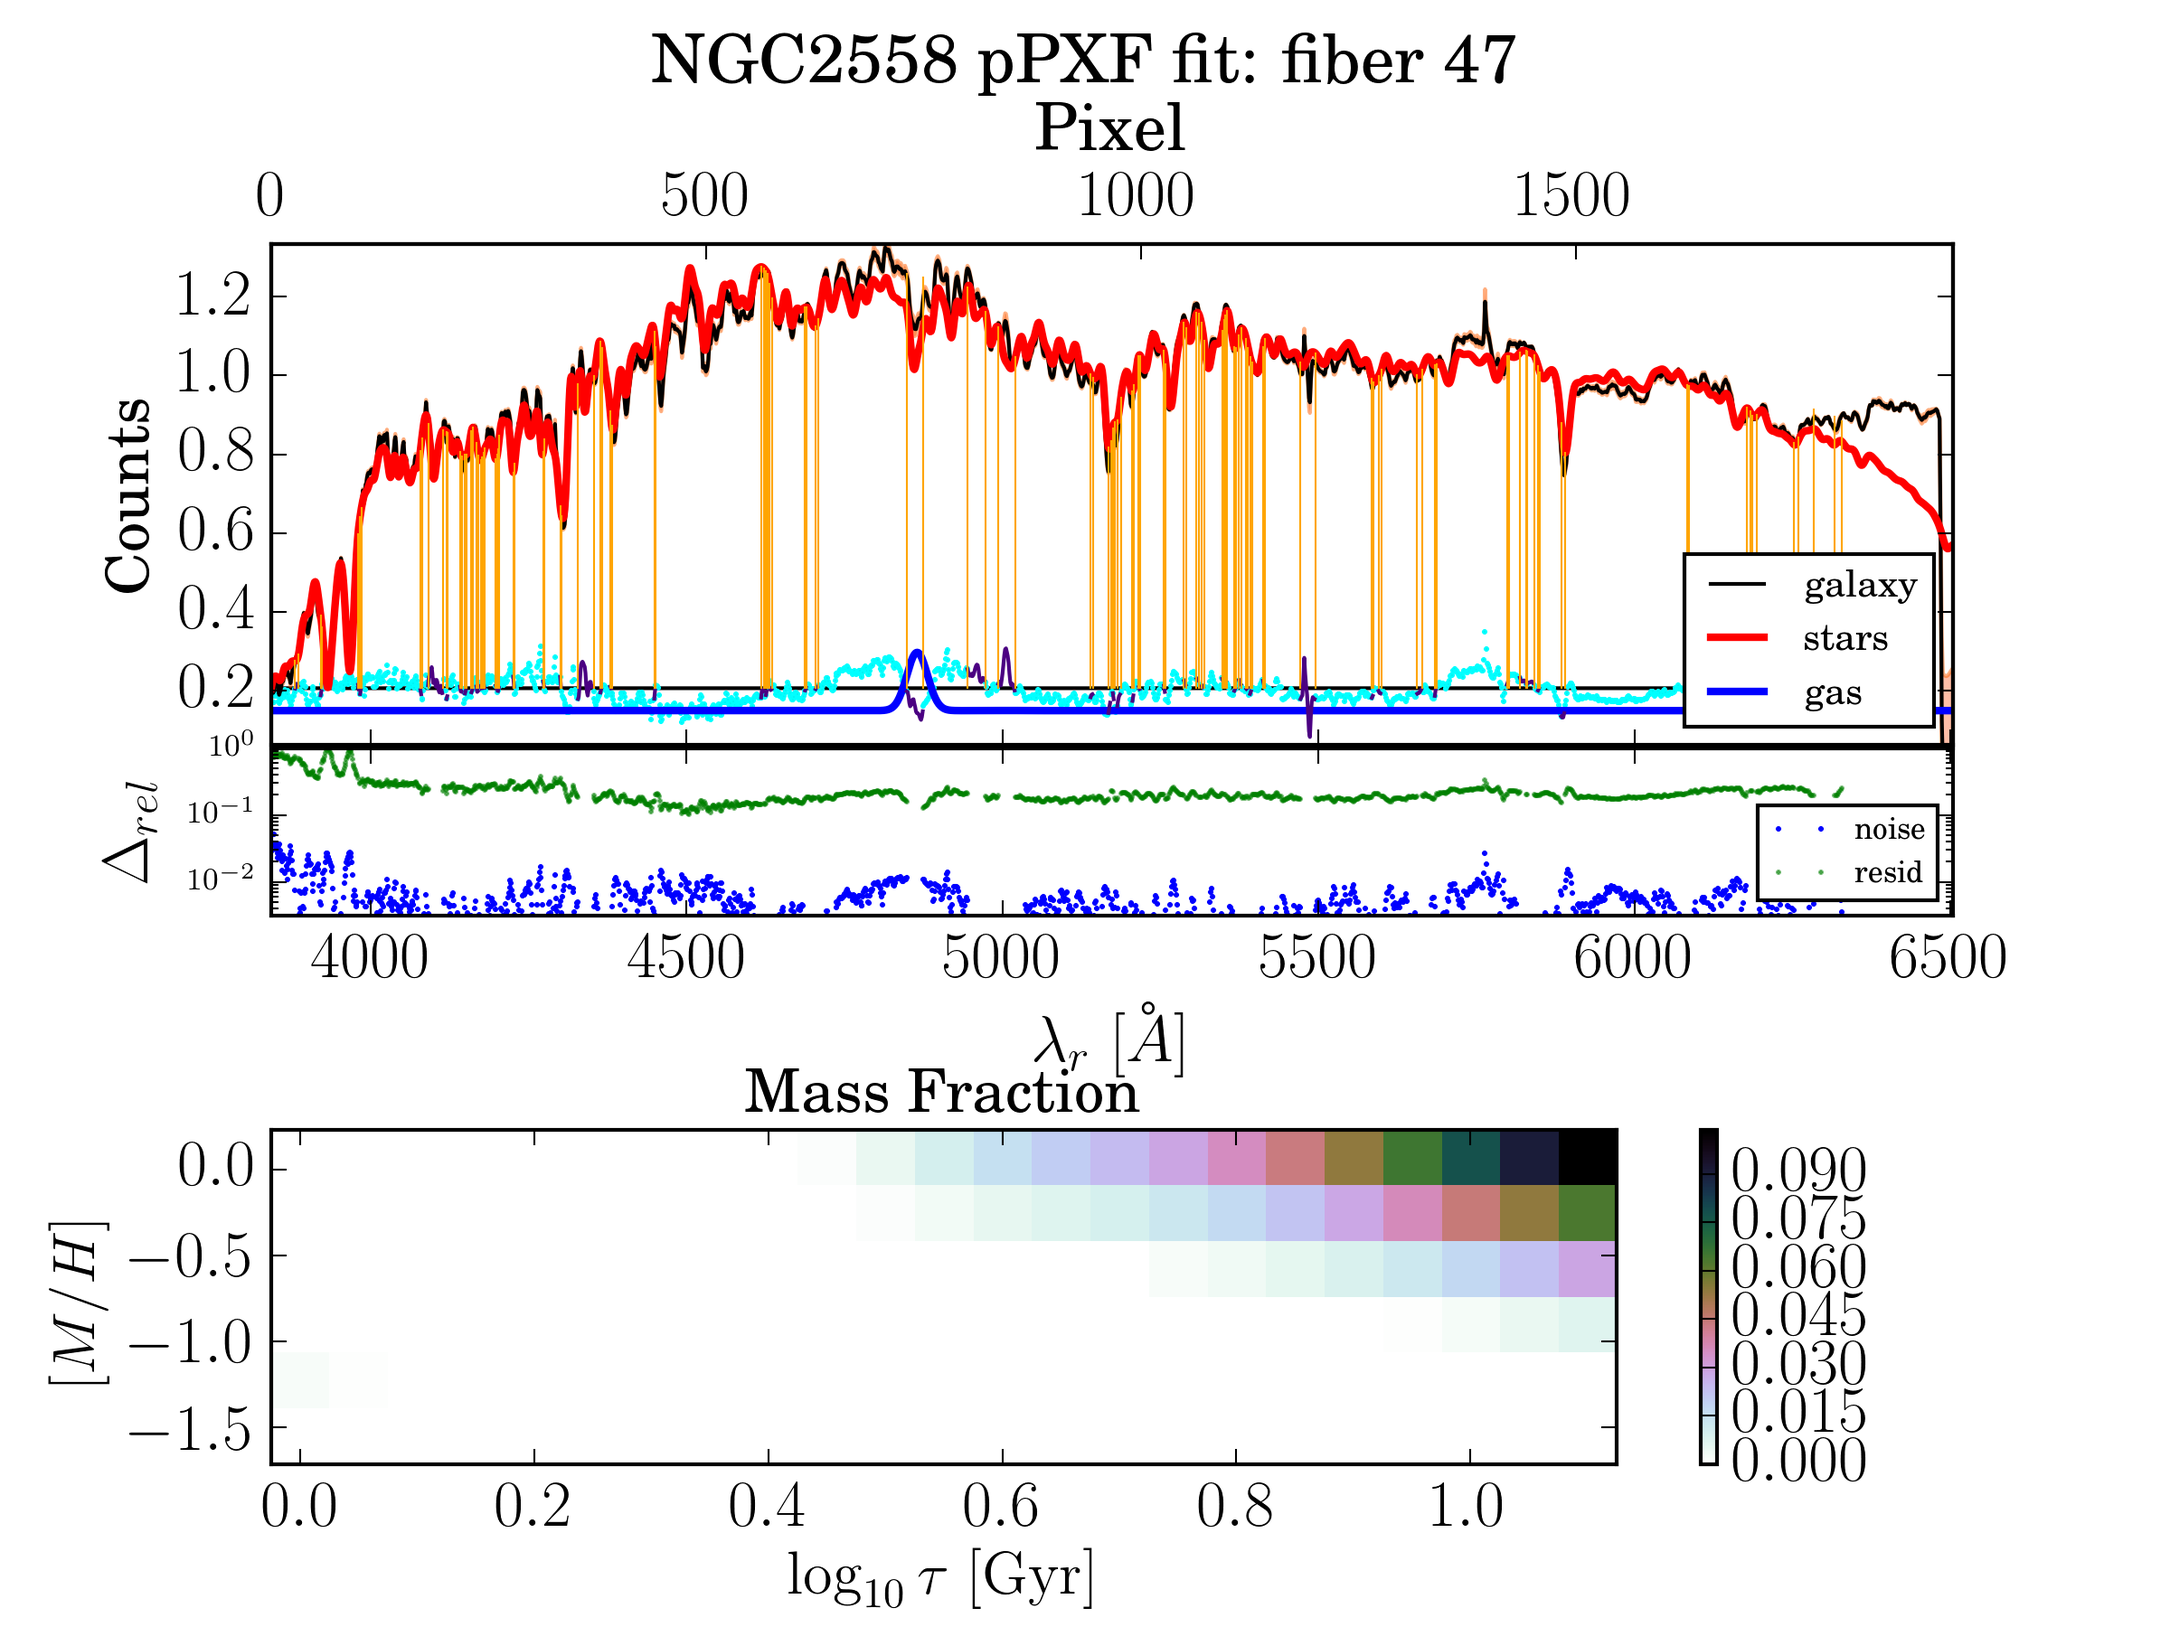
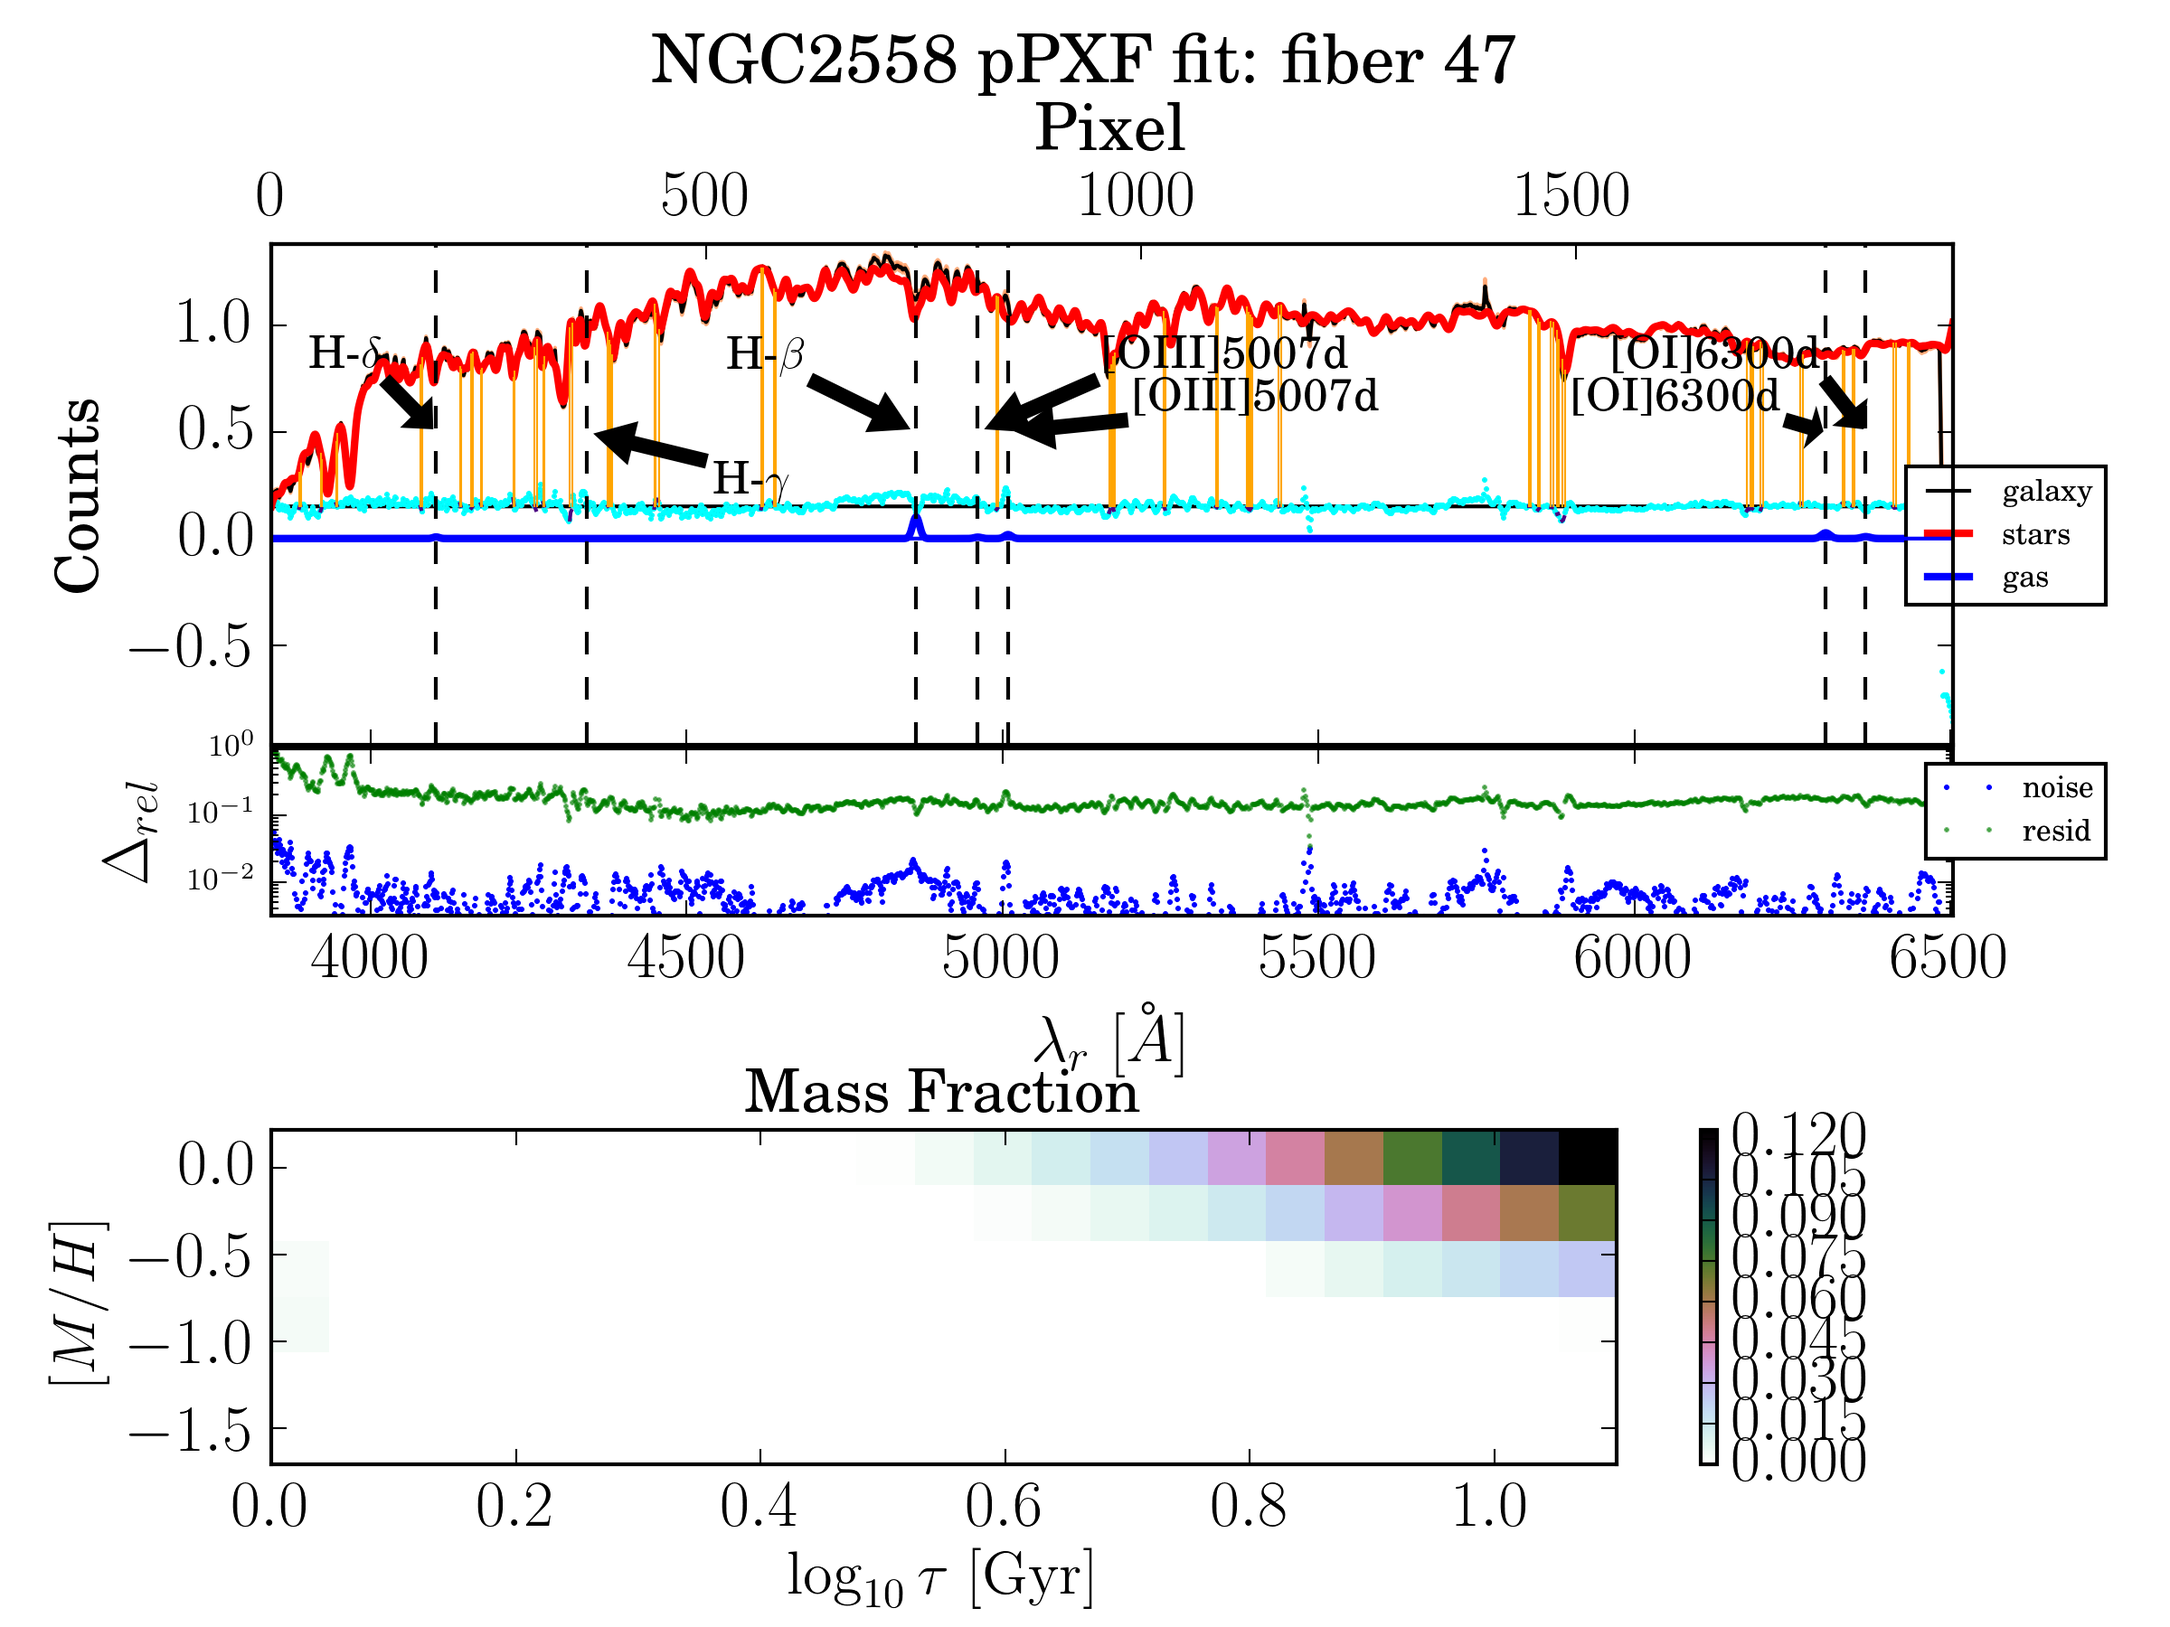
fixed eline fits by unmasking elines using a second goodPixels instance; plus more work on plotting

diff --git a/SPaCT.py b/SPaCT.py
@@ -916,7 +916,7 @@ def pPXF_MC(pp, lam):
 
 def SP_pPXF(ifu, fiber, l_summ, z, template_set='MILES', verbose=False,
             noise_plots=False, fit_plots=False, reddening=None, age_lim=13.6,
-            n_moments=4, bias=None, objname='', clean=True, quiet=False,
+            n_moments=2, bias=None, objname='', clean=True, quiet=False,
             oversample=False, save_fits=False, gas_comps=None, regul=100.):
     '''
     Run Cappellari et al.'s pPXF on a SparsePak fiber
@@ -1143,8 +1143,9 @@ def SP_pPXF(ifu, fiber, l_summ, z, template_set='MILES', verbose=False,
         lam = np.exp(logLam1)
 
         #deredden in MW frame
-        fact = reddening_curve(lam_obs, reddening)
-        galaxy /= fact
+        if reddening is not None:
+            fact = reddening_curve(lam_obs, reddening)
+            galaxy /= fact
 
         print 'ICs:', start
 
@@ -1163,6 +1164,13 @@ def SP_pPXF(ifu, fiber, l_summ, z, template_set='MILES', verbose=False,
 
         # new noise spectrum will be residual from 1st fit
         noise = np.abs(pp.bestfit - galaxy/np.median(galaxy))
+
+        #deredden in rest-frame
+        #this allows multiplicative polynomials to be used to
+        #correct fluxcal
+        reddening = pp.reddening
+        fact = reddening_curve(lam, pp.reddening)
+        galaxy /= fact
 
         pp = ppxf(templates=templates, galaxy=galaxy/np.median(galaxy),
                   noise=noise, velScale=velscale,
@@ -1216,6 +1224,13 @@ def SP_pPXF(ifu, fiber, l_summ, z, template_set='MILES', verbose=False,
             start = [start] * (gas_comps + 1)
             #print n_moments
             #print start
+
+            #make a new mask that doesn't mask eline locations
+            goodPixels = util.determine_goodpixels(logLam1, lamRange2, vel,
+                                                   mask_elines = False)
+            goodPixels = np.array(
+                            [pixel for pixel in goodPixels if pixel
+                             not in negative_pixels])
         else:
             gas_comps = 0
             all_templates = templates
@@ -1231,20 +1246,13 @@ def SP_pPXF(ifu, fiber, l_summ, z, template_set='MILES', verbose=False,
         for gascomp_number in range(1, gas_comps + 1):
             component.extend([gascomp_number] * nGas_templates)
 
-        #deredden in rest-frame
-        #this allows multiplicative polynomials to be used to
-        #correct fluxcal
-        reddening = pp.reddening
-        fact = reddening_curve(lam, pp.reddening)
-        galaxy /= fact
-
         pp = ppxf(templates=all_templates, galaxy=galaxy/np.median(galaxy),
                   noise=noise, velScale=velscale, start=start,
-                  goodpixels=goodPixels, clean=clean, plot=False,
+                  goodpixels=goodPixels, clean=True, plot=False,
                   moments=n_moments, vsyst=dv, reddening=None,
                   lam=lam, bias=bias, quiet=quiet, oversample=oversample,
                   regul=regul, reg_dim=reg_dim, component=component,
-                  mdegree=10, degree=-1)
+                  mdegree=20, degree=-1)
 
         #print z, lam[0], lam[-1]
 
@@ -1303,7 +1311,47 @@ def SP_pPXF(ifu, fiber, l_summ, z, template_set='MILES', verbose=False,
             gas_weights = pp.weights[-nGas_templates:]
             gas = pp.matrix[:, -nGas_templates:].dot(
                 pp.weights[-nGas_templates:])
-            ax1.plot(pp.lam, gas+0.15, c='b', linewidth=2, label='gas')
+            if gas_comps not in (0, None):
+                ax1.plot(pp.lam, gas, c='b', linewidth=2, label='gas')
+
+                line_ns = [r'H-$\beta$', r'H-$\gamma$', r'H-$\delta$',
+                           r'[OI]6300d', r'[OI]6300d',
+                           r'[OIII]5007d', r'[OIII]5007d']
+                line_ls = [4861.33, 4340.47, 4101.76, 6363.67, 6300.30,
+                           4958.92, 5006.84]
+
+                for i, (l, n) in enumerate(zip(line_ls, line_ns)):
+                    if i == 0:
+                        h = -300
+                        v = 0.4
+                    elif i == 1:
+                        h = 200
+                        v = -0.2
+                    elif i == 2:
+                        h = -200
+                        v = 0.4
+                    elif i == 3:
+                        h = -400
+                        v = 0.4
+                    elif i == 4:
+                        h = -400
+                        v = 0.2
+                    elif i == 5:
+                        h = 200
+                        v = 0.4
+                    elif i == 6:
+                        h = 200
+                        v = 0.2
+                    ax1.axvline(l*(1+pp.sol[1][0]/c),
+                                ymin=0., ymax=2., color='k',
+                                linestyle='--')
+                    ax1.annotate(s=n, xy=(l*(1+pp.sol[1][0]/c), 0.5),
+                                 xytext=(l*(1+pp.sol[1][0]/c) + h,
+                                         0.4 + v),
+                                 arrowprops={'shrink' : 0.05,
+                                             'edgecolor': 'None',
+                                             'facecolor': 'k',
+                                             'frac': 0.35})
 
             # residuals
             mn = np.min(pp.bestfit[pp.goodpixels])
@@ -1332,7 +1380,8 @@ def SP_pPXF(ifu, fiber, l_summ, z, template_set='MILES', verbose=False,
             ax1.spines['bottom'].set_visible(False)
             plt.setp(ax1.get_xticklabels(), visible=False)
             ax1.set_ylabel("Counts", fontsize=16)
-            ax1.legend(loc='lower right', fontsize='small')
+            ax1.legend(bbox_to_anchor=(1.1, .25), fontsize='small',
+                       loc='lower right', prop={'size': 8})
 
             # set up a twin axis to display pixel positions
             # DO NOT CHANGE XLIMS OF ANYTHING!!!!
@@ -1357,7 +1406,8 @@ def SP_pPXF(ifu, fiber, l_summ, z, template_set='MILES', verbose=False,
                          label='resid', alpha=0.5)
             ax1_res.set_xlabel(r'$\lambda_r ~ [\AA]$')
 
-            ax1_res.legend(loc='best', prop={'size': 8})
+            ax1_res.legend(loc='lower right', prop={'size': 8},
+                           bbox_to_anchor=(1.1, .25))
             ax1_res.set_ylabel(r'$\Delta_{rel}$')
             ax1_res.set_yscale('log')
             ax1_res.set_ylim([10**-2.5, 1.])
@@ -1389,10 +1439,8 @@ def SP_pPXF(ifu, fiber, l_summ, z, template_set='MILES', verbose=False,
                 weights, origin='lower', interpolation='nearest',
                 cmap='cubehelix_r',
                 vmin=0.0, extent=(
-                    np.log10(np.min(ssps['t'])) - d_log_ages/2.,
-                    np.log10(np.max(ssps['t'])) + d_log_ages/2.,
-                    np.min(ssps['Z']) - dz/2.,
-                    np.max(ssps['Z']) + dz/2.))
+                    np.log10(ssps['t']).min(), np.log10(ssps['t']).max(),
+                    ssps['Z'].min(), ssps['Z'].max()))
 
             plt.colorbar()
             plt.title("Mass Fraction", size=16)
@@ -1432,17 +1480,20 @@ def SP_pPXF(ifu, fiber, l_summ, z, template_set='MILES', verbose=False,
                 print 'writing to ' + objname + '/' + str(fiber) + '.png'
                 plt.savefig(objname + '/' + str(fiber) + '.png')
 
-    gas_fits = {
-        'reddening': reddening,
-        'V': pp.sol[1][0],
-        'sigma': pp.sol[1][1],
-        'dV': pp.error[1][0],
-        'dsigma': pp.error[1][1],
-        'Hdelta': gas_weights[0],
-        'Hgamma': gas_weights[1],
-        'Hbeta': gas_weights[2],
-        '[OIII]5007d': gas_weights[3],
-        '[OI]6300d': gas_weights[4]}
+    if gas_comps not in (0, None):
+        gas_fits = {
+            'reddening': reddening,
+            'V': pp.sol[1][0],
+            'sigma': pp.sol[1][1],
+            'dV': pp.error[1][0],
+            'dsigma': pp.error[1][1],
+            'Hdelta': gas_weights[0],
+            'Hgamma': gas_weights[1],
+            'Hbeta': gas_weights[2],
+            '[OIII]5007d': gas_weights[3],
+            '[OI]6300d': gas_weights[4]}
+    else:
+        gas_fits = {}
 
     return pp, ssps, gas_fits
 
@@ -1734,8 +1785,9 @@ def pPXF_run_galaxy(objname, first_few=None, gas_comps=None, regul=100.,
         except ZeroDivisionError:
             print 'No fit in fiber', fiber
 
-        except TypeError:  # occasionally you get a bad mpfit
+        except TypeError as emsg:  # occasionally you get a bad mpfit
             print 'probably velScale/mpfit error in fiber', fiber
+            print 'Error message:\n', emsg
 
         except IndexError:
             print 'weird index error in fiber', fiber

diff --git a/group_map.py b/group_map.py
@@ -18,6 +18,12 @@ objnames = ['UGC04329', 'UGC04344', 'NGC2558', 'NGC2557', 'NGC2562',
 objnames2 = ['NGC2560', 'NGC2569', 'IC2293', 'UGC04324', 'UGC04386',
              'IC2339', 'IC2341']
 
+objnames3 = ['CGCG119-040', 'CGCG119-047', 'CGCG119-051', 'CGCG119-069']
+objs3 = SkyCoord(
+    ra=[124.62096, 124.82825, 124.76342, 125.36387,125.36387],
+    dec=[20.89526, 21.76629, 20.82625, 21.03625, 21.03625],
+    unit=(u.deg, u.deg), frame='icrs')
+
 def get_obj_coords(names):
     for i, objname in enumerate(names):
         #print objname
@@ -37,9 +43,9 @@ if __name__ == '__main__':
     #os.system('mExec -c -o NGC2563IR.fits -f NGC2563.hdr DSS DSS2IR tempdir')
     #os.system('mExec -c -o NGC2563K.fits -f NGC2563.hdr 2MASS Ks tempdir')
 
-    fig = plt.figure(figsize=(10, 6), dpi=600)
+    fig = plt.figure(figsize=(10, 7), dpi=600)
     fo = fits.open('NGC2563R.fits')
-    ax = pywcsgrid2.axes([0.065, 0.1, 0.6, 0.85], header=fo[0].header)
+    ax = pywcsgrid2.axes([0.105, 0.075, 0.6, 0.9], header=fo[0].header)
     ax.imshow(fo[0].data, origin='lower', cmap='binary',
               aspect='equal', zorder=0,
               norm=LogNorm(vmin=np.percentile(fo[0].data, 15.)))
@@ -52,6 +58,8 @@ if __name__ == '__main__':
                       edgecolor='g', s=50, zorder=2, marker='H')
     ax['fk5'].scatter(objs2.ra.deg, objs2.dec.deg, marker='s',
                       edgecolor='r', facecolor='None', s=40, zorder=2)
+    ax['fk5'].scatter(objs3.ra.deg, objs3.dec.deg, marker='s',
+                      edgecolor='r', facecolor='None', s=40, zorder=2)
 
     print objs.to_string('hmsdms')
 
@@ -59,11 +67,13 @@ if __name__ == '__main__':
            for n, o in zip(objnames, objs)]
     txt2 = ['{}: {}'.format(n, str(o.to_string('hmsdms')))
             for n, o in zip(objnames2, objs2)]
+    txt3 = ['{}: {}'.format(n, str(o.to_string('hmsdms')))
+            for n, o in zip(objnames3, objs3)]
 
-    fig.text(.625, .55, '\n'.join(txt), color = 'g')
-    fig.text(.625, .30, '\n'.join(txt2), color = 'r')
+    fig.text(.725, .55, '\n'.join(txt), color = 'g', size=8)
+    fig.text(.725, .30, '\n'.join(txt2 + txt3), color = 'r', size=8)
     d = 61. #dist [Mpc] to NGC2563
-    ds = np.array([0.05, 0.1, 0.2, 0.5, 1., 2.]) #projected radius
+    ds = np.array([0.1, 0.2, 0.5, 1., 2.]) #projected radius
     print ds/d*206265./3600.
 
     NGC2563 = objs[-1]
@@ -71,11 +81,15 @@ if __name__ == '__main__':
     #                      facecolor='None') for s in ds/d/3600.]
 
     #[ax['fk5'].add_artist(c) for c in circles];
-    for r in ds/d*206265./3600.:
+    for r, l in zip(ds/d*206265./3600., ds):
         ax['fk5'].add_artist(
             plt.Circle(
                 (NGC2563.ra.deg, NGC2563.dec.deg), r, facecolor='None',
                 edgecolor='k', linestyle='dashed'))
+
+        ax['fk5'].annotate(xy=(NGC2563.ra.deg + .1, NGC2563.dec.deg + r + .01),
+                           s='R$_{{proj}}$ = {:.2} Mpc'.format(l), size=8)
+
     plt.suptitle('NGC2563 Group Diagram')
 
     plt.savefig('field_diagram.png')

diff --git a/ppxf_util.py b/ppxf_util.py
@@ -166,7 +166,7 @@ def log_rebin(lamRange, spec, oversample=False, velscale=None, flux=False):
 # V2.0.0: Translated from IDL into Python. MC, Oxford, 10 December 2013
 # V2.0.1: Updated line list. MC, Oxford, 8 January 2014
 
-def determine_goodpixels(logLam, lamRangeTemp, vel):
+def determine_goodpixels(logLam, lamRangeTemp, vel, mask_elines = True):
     """
     Generates a list of goodpixels to mask a given set of gas emission
     lines. This is meant to be used as input for PPXF.
@@ -177,13 +177,14 @@ def determine_goodpixels(logLam, lamRangeTemp, vel):
     #sky lines              NaI     OI    HgI    Atm
     #lines = lines.append([5683.88, 5577., 5461., 5199.])
 
-    dv = lines*0 + 800 # width/2 of masked gas emission region in km/s
+    dv = lines*0 + 1200 # width/2 of masked gas emission region in km/s
     c = 299792.458 # speed of light in km/s
 
     flag = logLam < 0 # empty mask
-    for j in range(lines.size):
-        flag |= (logLam > np.log(lines[j]) + (vel - dv[j])/c) \
-              & (logLam < np.log(lines[j]) + (vel + dv[j])/c)
+    if mask_elines == True:
+        for j in range(lines.size):
+            flag |= (logLam > np.log(lines[j]) + (vel - dv[j])/c) \
+                  & (logLam < np.log(lines[j]) + (vel + dv[j])/c)
 
     flag |= logLam < np.log(lamRangeTemp[0]) + (vel + 900.)/c # Mask edges of
     flag |= logLam > np.log(lamRangeTemp[1]) + (vel - 900.)/c # stellar library
